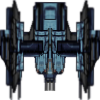
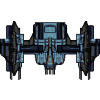
Fixed stretched robot images

diff --git a/src/main/java/inf112/skeleton/app/view/GameRenderer.java b/src/main/java/inf112/skeleton/app/view/GameRenderer.java
@@ -48,7 +48,7 @@ public class GameRenderer {
     }
 
     private void loadTextures() {
-        TextureRegion robotFacingUp = new TextureRegion(new Texture("Player/Mechs/Mech1A.png"));
+        TextureRegion robotFacingUp = new TextureRegion(new Texture("Player/Mechs/Mech1A_north.png"));
         TextureRegion robotFacingRight = new TextureRegion(new Texture("Player/Mechs/Mech1A_east.png"));
         TextureRegion robotFacingDown = new TextureRegion(new Texture("Player/Mechs/Mech1A_south.png"));
         TextureRegion robotFacingLeft = new TextureRegion(new Texture("Player/Mechs/Mech1A_west.png"));
